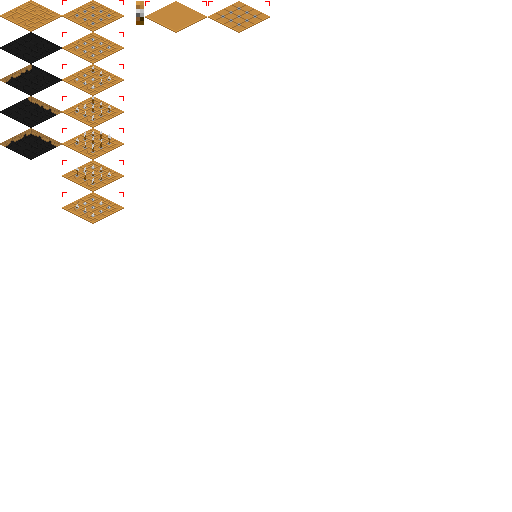
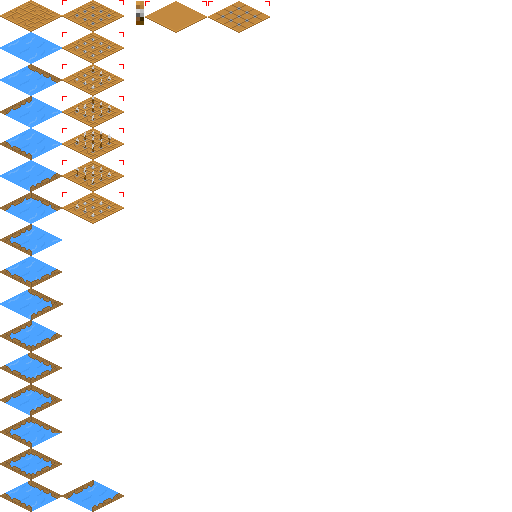
ADD ::: added water textures

Changed region(s): [[0.0, 0.0625, 0.25, 1.0]]

diff --git a/scripts/main.js b/scripts/main.js
@@ -26,7 +26,7 @@ var conf = {
 				"ground0": [0, 0, 62, 32],
 				"ground1": [0, 0, 62, 32],
 				"ground2": [0, 0, 62, 32],
-				"hole": [0, 32, 62, 32],
+				"water": [0, 32, 62, 32],
 				"pike0": [62, 0, 62, 32],
 				"pike1": [62, 32, 62, 32],
 				"pike2": [62, 64, 62, 32],
@@ -55,8 +55,8 @@ var conf = {
 		"ground": [
 			{"id": "ground0", "count": 1}
 		],
-		"hole": [
-			{"id": "hole", "count": 1}
+		"water": [
+			{"id": "water", "count": 1}
 		],
 		"pike": [
 			{"id": "pike0", "count": 10},
@@ -83,13 +83,13 @@ var conf = {
 				{"safe": true, "count": 1}
 			]
 		},
-		"hole": {
+		"water": {
 			"tileList": [
-				{"id": "hole", "delay": 0},
-				{"id": "hole", "delay": 0},
-				{"id": "hole", "delay": 0},
-				{"id": "hole", "delay": 0},
-				{"id": "hole", "delay": 0}
+				{"id": "water", "delay": 0},
+				{"id": "water", "delay": 0},
+				{"id": "water", "delay": 0},
+				{"id": "water", "delay": 0},
+				{"id": "water", "delay": 0}
 			],
 			"timeCycle": [
 				{"safe": true, "count": 1}
@@ -97,11 +97,11 @@ var conf = {
 		},
 		"pike_slow": {
 			"tileList": [
-				{"id": "hole", "delay": 0},
+				{"id": "water", "delay": 0},
 				{"id": "pike", "delay": 0},
 				{"id": "pike", "delay": 2},
 				{"id": "pike", "delay": 4},
-				{"id": "hole", "delay": 0}
+				{"id": "water", "delay": 0}
 			],
 			"timeCycle": [
 				{"safe": true, "count": 1},
@@ -116,14 +116,14 @@ var conf = {
 				{"id": "ground", "delay": 0},
 				{"id": "ground", "delay": 0},
 				{"id": "pike_slow", "delay": 0},
-				{"id": "hole", "delay": 0},
+				{"id": "water", "delay": 0},
 				{"id": "pike_slow", "delay": 10},
 				{"id": "ground", "delay": 0},
-				{"id": "hole", "delay": 0},
+				{"id": "water", "delay": 0},
 				{"id": "ground", "delay": 0},
 				{"id": "ground", "delay": 0},
 				{"id": "ground", "delay": 0},
-				{"id": "hole", "delay": 0},
+				{"id": "water", "delay": 0},
 				{"id": "ground", "delay": 0}
 			]
 		}
